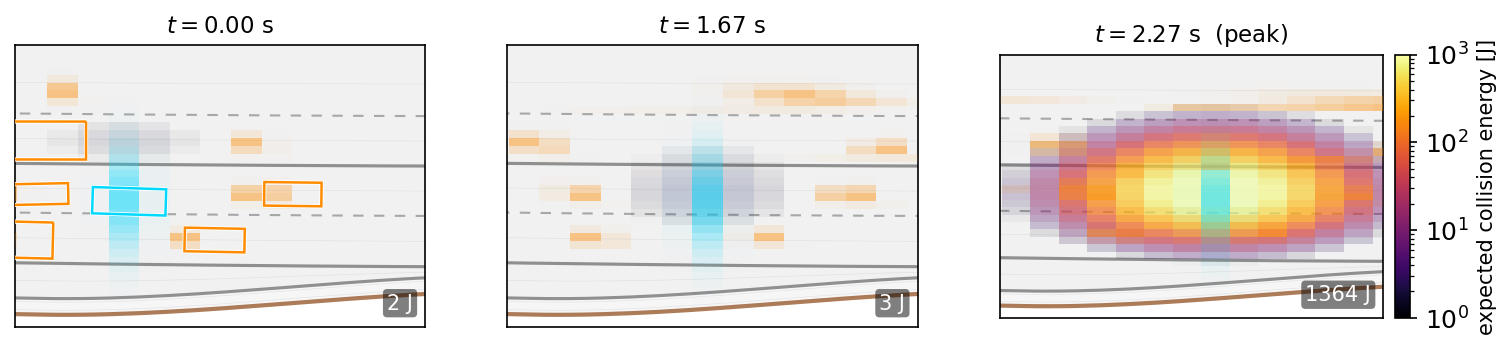
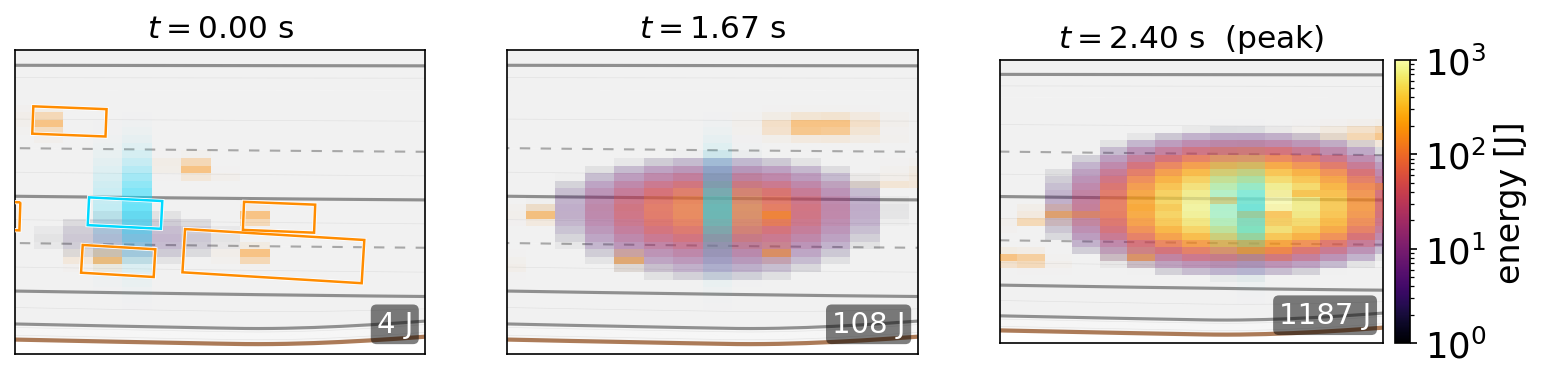
Swap AD4CHE hero scene to a true PET conflict (2238, 1187 J)
Old scene (a1252) had PET=2.27s, outside the 1.0s conflict cutoff.
Replaced with scene 2238: near-head-on 34 m/s closing, PET=0,
verified on recorded vehicle dimensions. Field peak 1187 J.

diff --git a/index.html b/index.html
@@ -183,7 +183,7 @@ footer a{color:var(--ink)}
       <figure class="card"><img src="static/images/ind_ncrit_risk.png" alt="InD low-speed crossing onto stopped traffic" loading="lazy"/><figcaption><b>InD · proximity &#8800; severity.</b> A low-speed turn onto a queue of stopped cars: the geometrically <em>tighter</em> near-miss (boxes momentarily touch) but only a 2.8&#8202;m/s closing speed, so the field stays modest (34&#8202;J). Energy tracks closing speed, not proximity.</figcaption></figure>
     </div>
     <div style="height:22px"></div>
-    <figure class="card"><img src="static/images/ad4che_site17_evo.png" alt="AD4CHE congested-highway risk evolution" loading="lazy"/><figcaption><b>AD4CHE · risk evolution (high-speed closing).</b> Three key frames (current → mid-horizon → peak): the ego is nearly stopped in congestion while a vehicle closes at ~30&#8202;m/s; risk blooms to a sharp 1364&#8202;J peak at the forecast meeting point, then relaxes.</figcaption></figure>
+    <figure class="card"><img src="static/images/ad4che_site17_evo.png" alt="AD4CHE congested-highway risk evolution" loading="lazy"/><figcaption><b>AD4CHE · risk evolution (high-speed closing).</b> Three key frames (current → mid-horizon → peak): the ego car crawls in congestion (~3&#8202;m/s) while an oncoming vehicle closes at ~34&#8202;m/s; risk blooms to a sharp 1187&#8202;J peak at the forecast meeting point, then relaxes.</figcaption></figure>
     <div style="height:22px"></div>
     <figure class="card"><img src="static/images/ad4che_site15_evo.png" alt="AD4CHE risk evolution, closing on near-static traffic" loading="lazy"/><figcaption><b>AD4CHE · risk evolution (closing on near-static traffic).</b> An ego car merging toward a near-stationary vehicle — risk peaks at 148&#8202;J and stays elevated as the ego keeps closing.</figcaption></figure>
   </div>
